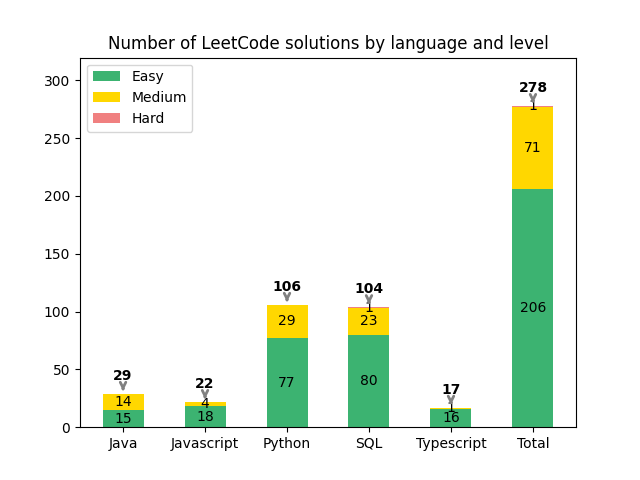
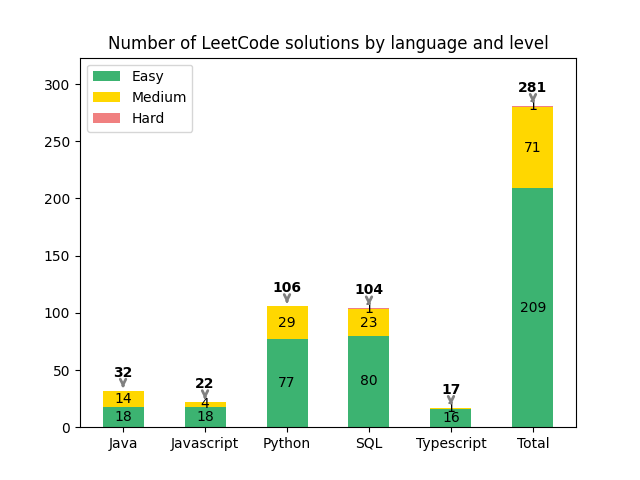
[auto] Update README and move solution files (R.N: 77)
Push commit: bcca424cf29348137965c19283f42d37df28089e

Files moved: 3

Workflow: Auto-update README and move newly added solution files during PR checks

Triggered on: pull_request

Run Link: https://github.com/e0406370/reetkode/actions/runs/15471408572

diff --git a/README.md b/README.md
@@ -28,6 +28,7 @@ This README is generated using the following custom-built **Python** scripts: [`
 |**66**|🟩 Easy|⚙|[Plus One](https://lcid.cc/66)|<a href="python/lce_p0066_plus_one.py"><img src=".github/icons/python-original.svg" height="25"></a>|
 |**73**|🟨 Medium|⚙|[Set Matrix Zeroes](https://lcid.cc/73)|<a href="python/lcm_p0073_set_matrix_zeroes.py"><img src=".github/icons/python-original.svg" height="25"></a>|
 |**77**|🟨 Medium|⚙|[Combinations](https://lcid.cc/77)|<a href="java/lcm_p0077_combinations.java"><img src=".github/icons/java-original.svg" height="25"></a>|
+|**125**|🟩 Easy|⚙|[Valid Palindrome](https://lcid.cc/125)|<a href="java/lce_p0125_valid_palindrome.java"><img src=".github/icons/java-original.svg" height="25"></a>|
 |**128**|🟨 Medium|⚙|[Longest Consecutive Sequence](https://lcid.cc/128)|<a href="java/lcm_p0128_longest_consecutive_sequence.java"><img src=".github/icons/java-original.svg" height="25"></a>|
 |**136**|🟩 Easy|⚙|[Single Number](https://lcid.cc/136)|<a href="java/lce_p0136_single_number.java"><img src=".github/icons/java-original.svg" height="25"></a>|
 |**151**|🟨 Medium|⚙|[Reverse Words In A String](https://lcid.cc/151)|<a href="python/lcm_p0151_reverse_words_in_a_string.py"><img src=".github/icons/python-original.svg" height="25"></a>|
@@ -45,6 +46,7 @@ This README is generated using the following custom-built **Python** scripts: [`
 |**217**|🟩 Easy|⚙|[Contains Duplicate](https://lcid.cc/217)|<a href="java/lce_p0217_contains_duplicate.java"><img src=".github/icons/java-original.svg" height="25"></a>|
 |**238**|🟨 Medium|⚙|[Product Of Array Except Self](https://lcid.cc/238)|<a href="java/lcm_p0238_product_of_array_except_self.java"><img src=".github/icons/java-original.svg" height="25"></a> <a href="python/lcm_p0238_product_of_array_except_self.py"><img src=".github/icons/python-original.svg" height="25"></a>|
 |**242**|🟩 Easy|⚙|[Valid Anagram](https://lcid.cc/242)|<a href="java/lce_p0242_valid_anagram.java"><img src=".github/icons/java-original.svg" height="25"></a> <a href="python/lce_p0242_valid_anagram.py"><img src=".github/icons/python-original.svg" height="25"></a>|
+|**268**|🟩 Easy|⚙|[Missing Number](https://lcid.cc/268)|<a href="java/lce_p0268_missing_number.java"><img src=".github/icons/java-original.svg" height="25"></a>|
 |**271**|🟨 Medium|⚙|[Encode And Decode Strings](https://lcid.cc/271)|<a href="java/lcm_p0271_encode_and_decode_strings.java"><img src=".github/icons/java-original.svg" height="25"></a>|
 |**283**|🟩 Easy|⚙|[Move Zeroes](https://lcid.cc/283)|<a href="python/lce_p0283_move_zeroes.py"><img src=".github/icons/python-original.svg" height="25"></a>|
 |**334**|🟨 Medium|⚙|[Increasing Triplet Subsequence](https://lcid.cc/334)|<a href="python/lcm_p0334_increasing_triplet_subsequence.py"><img src=".github/icons/python-original.svg" height="25"></a>|
@@ -140,6 +142,7 @@ This README is generated using the following custom-built **Python** scripts: [`
 |**1672**|🟩 Easy|⚙|[Richest Customer Wealth](https://lcid.cc/1672)|<a href="python/lce_p1672_richest_customer_wealth.py"><img src=".github/icons/python-original.svg" height="25"></a>|
 |**1679**|🟨 Medium|⚙|[Max Number Of K-sum Pairs](https://lcid.cc/1679)|<a href="python/lcm_p1679_max_number_of_k-sum_pairs.py"><img src=".github/icons/python-original.svg" height="25"></a>|
 |**1683**|🟩 Easy|🛢|[Invalid Tweets](https://lcid.cc/1683)|<a href="sql/lce_p1683_invalid_tweets_sqlserver.sql"><img src=".github/icons/sqlserver-original.svg" height="25"></a>|
+|**1684**|🟩 Easy|⚙|[Count The Number Of Consistent Strings](https://lcid.cc/1684)|<a href="java/lce_p1684_count_the_number_of_consistent_strings.java"><img src=".github/icons/java-original.svg" height="25"></a>|
 |**1693**|🟩 Easy|🛢|[Daily Leads And Partners](https://lcid.cc/1693)|<a href="sql/lce_p1693_daily_leads_and_partners_mysql.sql"><img src=".github/icons/mysql-original.svg" height="25"></a>|
 |**1700**|🟩 Easy|⚙|[Number Of Students Unable To Eat Lunch](https://lcid.cc/1700)|<a href="python/lce_p1700_number_of_students_unable_to_eat_lunch.py"><img src=".github/icons/python-original.svg" height="25"></a>|
 |**1720**|🟩 Easy|⚙|[Decode Xored Array](https://lcid.cc/1720)|<a href="python/lce_p1720_decode_xored_array.py"><img src=".github/icons/python-original.svg" height="25"></a>|
